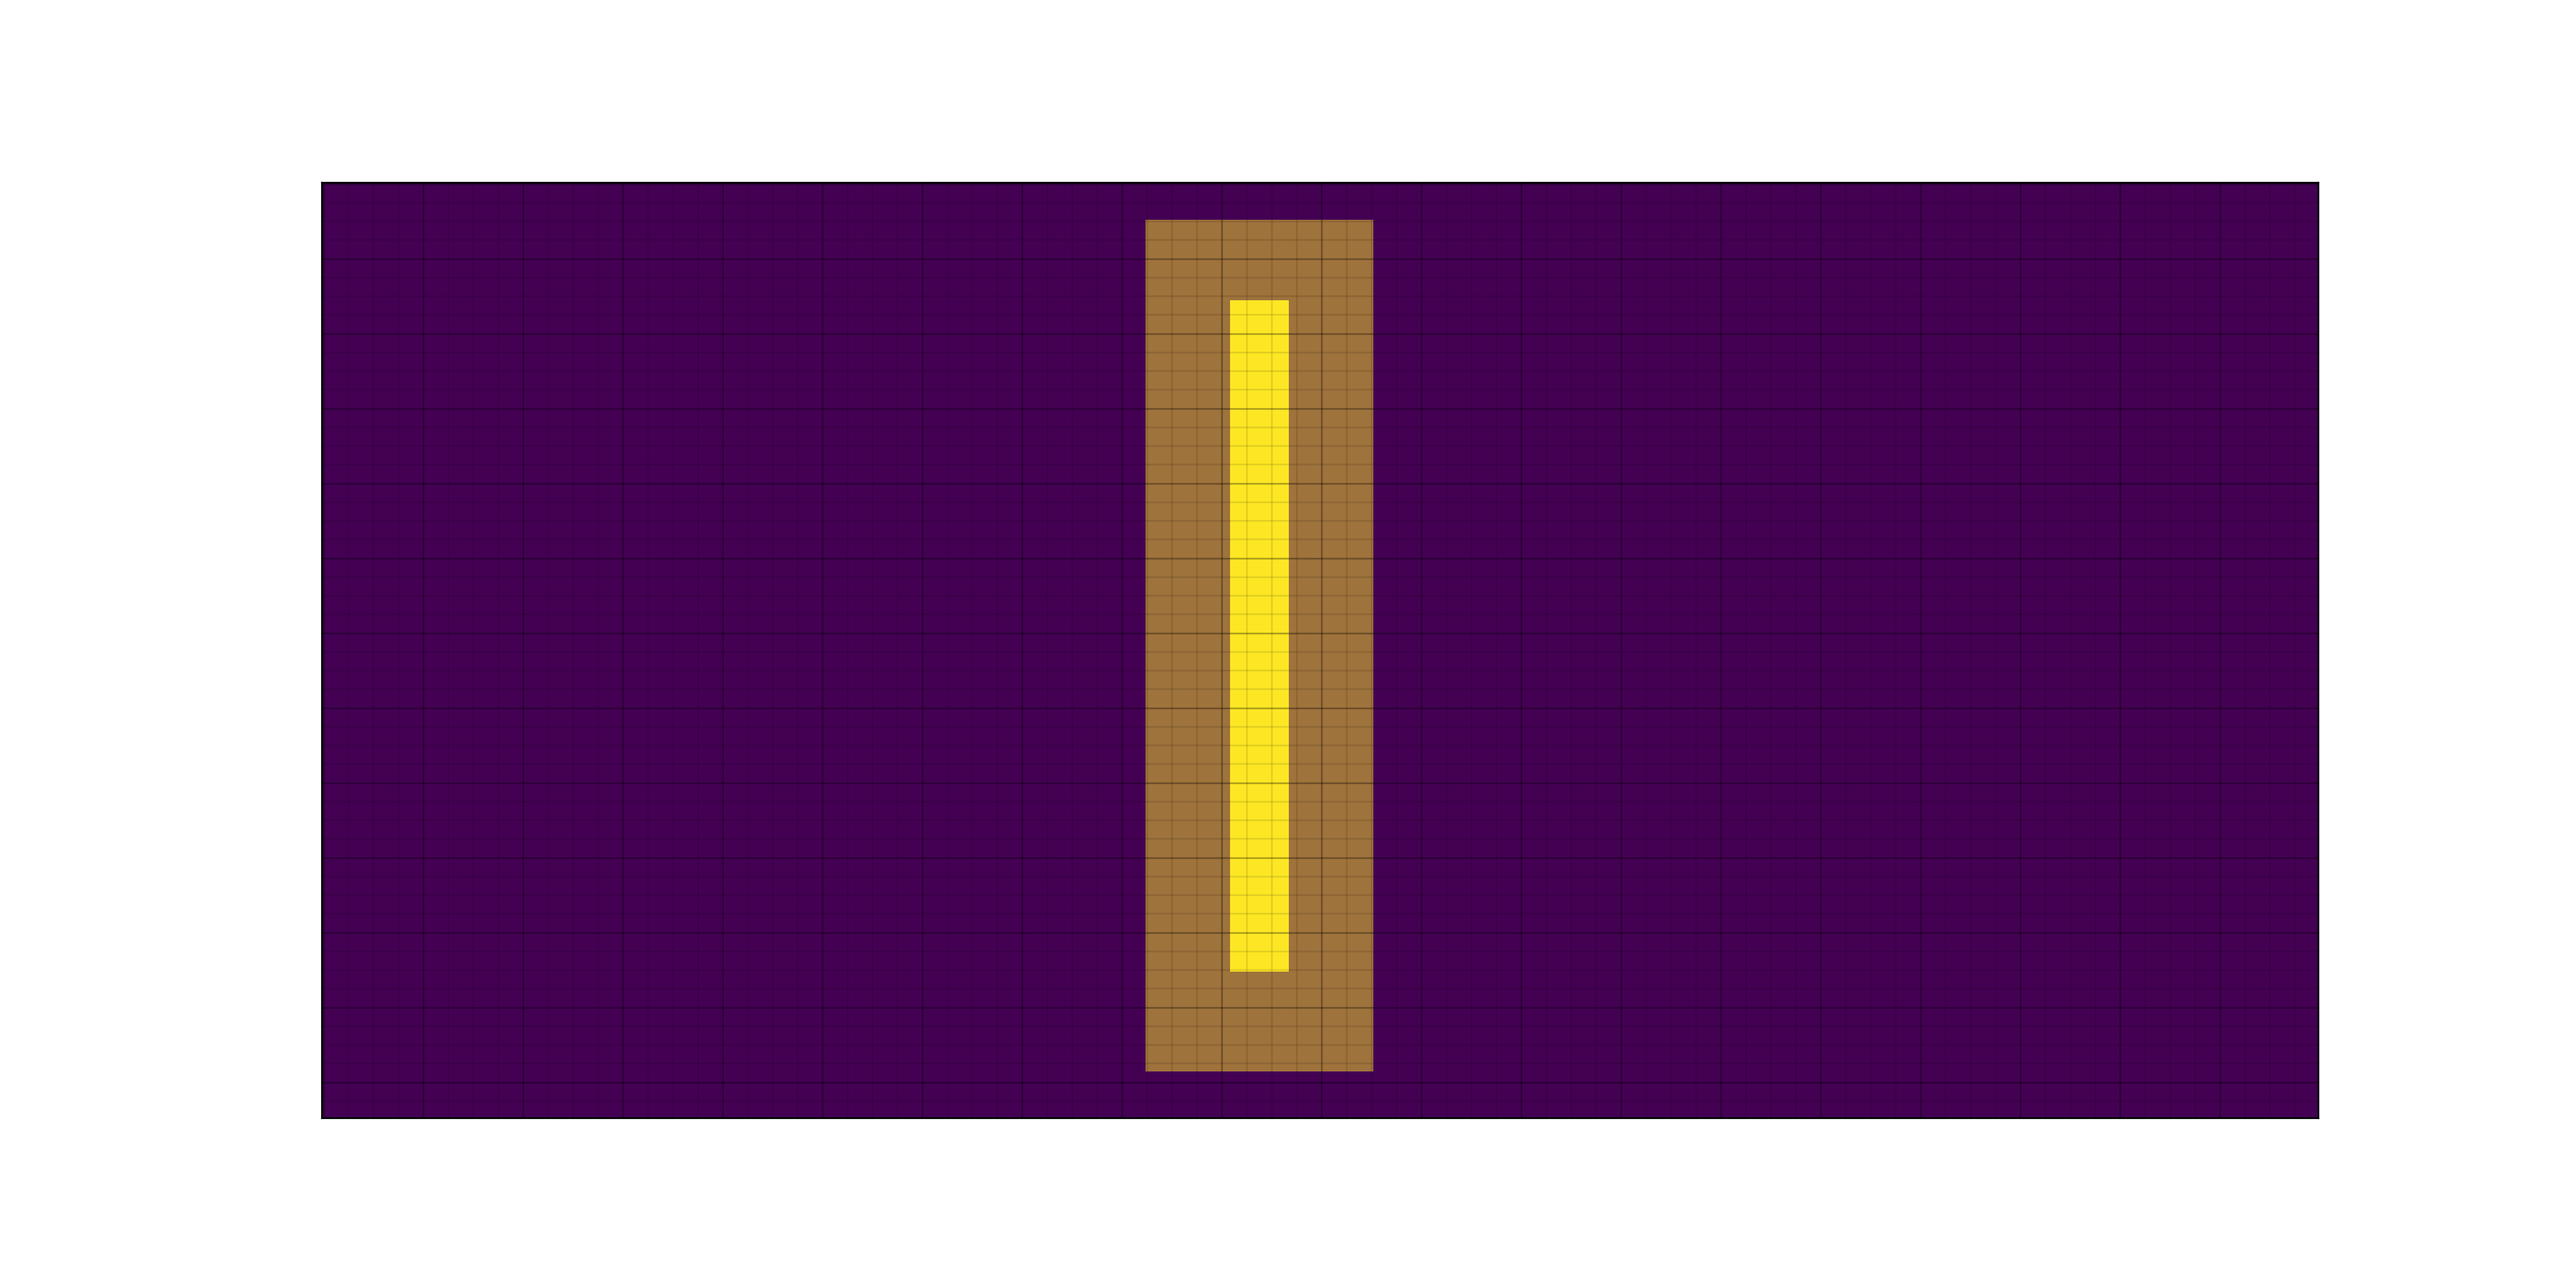
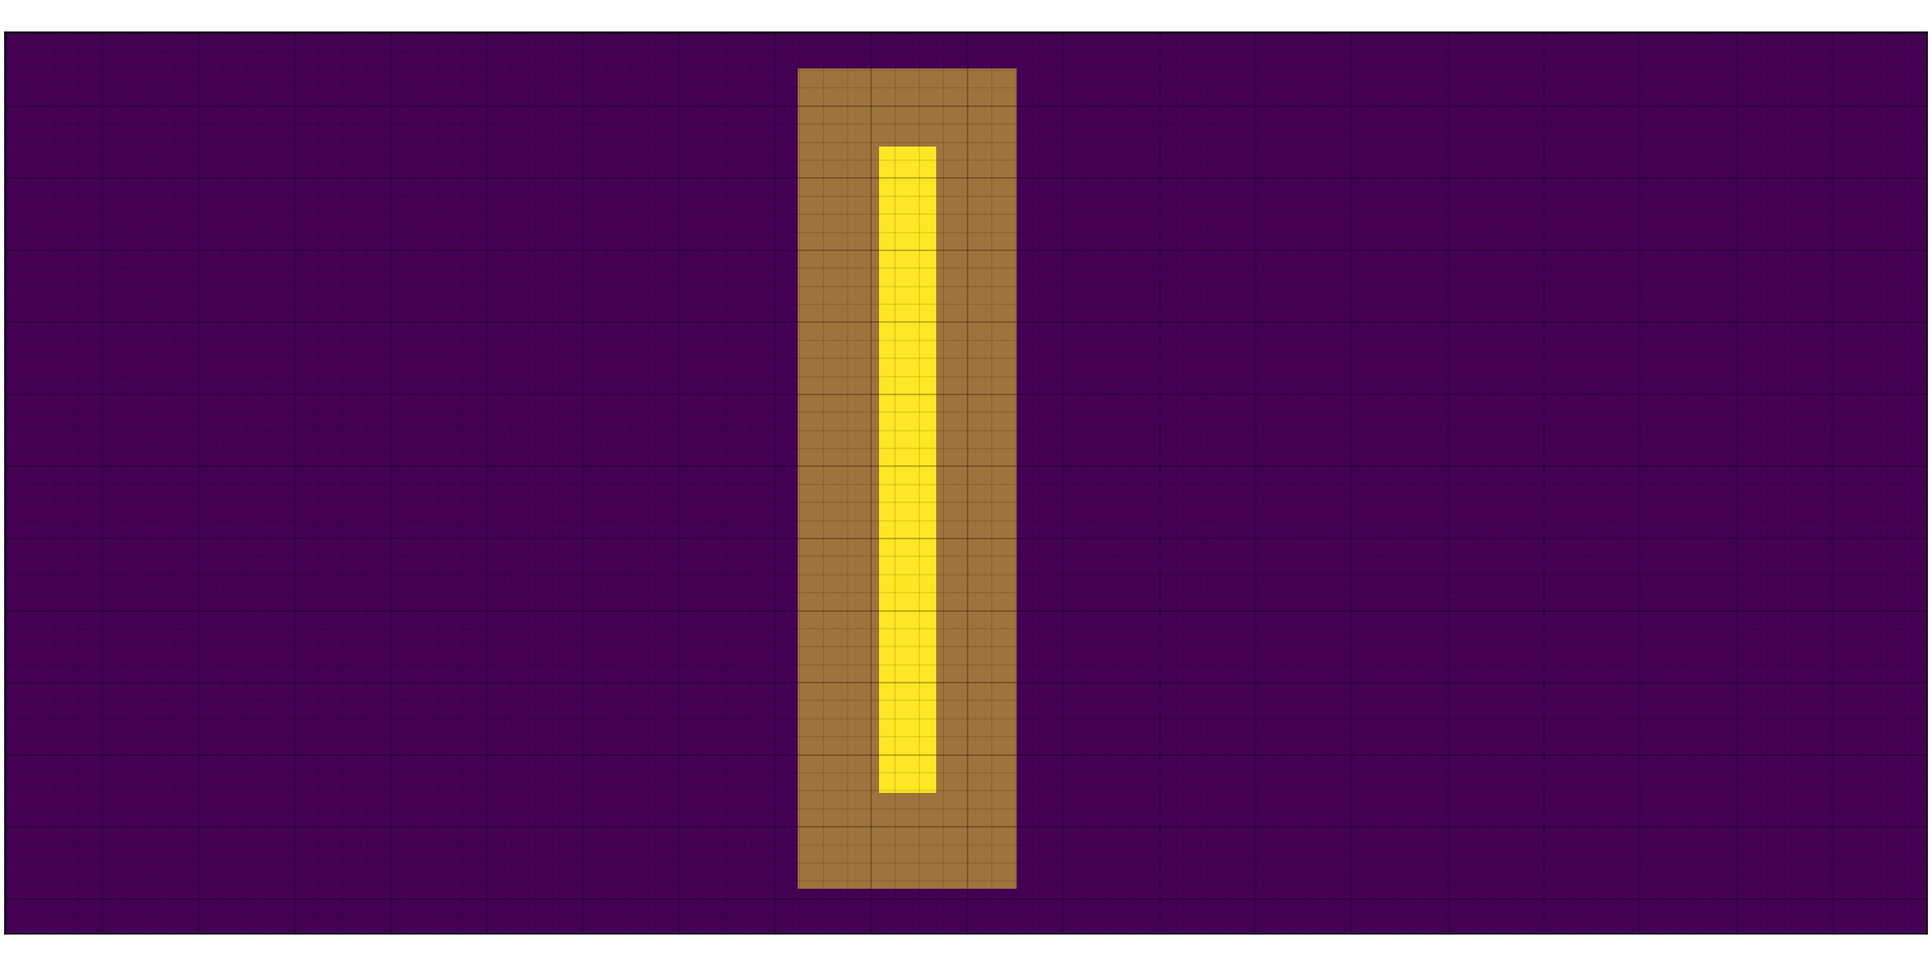
Variation dans la longuer des lignes

diff --git a/ImageSynthetique.py b/ImageSynthetique.py
@@ -6,7 +6,8 @@ params = {'legend.fontsize': 'x-large',
           'axes.titlesize':'x-large',
           'xtick.labelsize':'x-large',
           'ytick.labelsize':'x-large',
-          'figure.dpi' : 200}
+          'figure.dpi' : 150,
+          'figure.constrained_layout.use': True}
 
 plt.rcParams.update(params)
 import time
@@ -49,7 +50,8 @@ class Image:
         for line in range(lines):
             intensity = np.random.randint(min_intensity,200)
             thickness = np.random.randint(times,2*times)
-            cv2.line(big_image, tuple(start), tuple(end), intensity, thickness)
+            length_var = [np.random.randint(-times,times),0]
+            cv2.line(big_image, tuple(start+length_var), tuple(end-length_var), intensity, thickness)
             start[1] += spacing
             end[1] += spacing
 
@@ -60,7 +62,9 @@ class Image:
         #image_resize = cv2.GaussianBlur(image_resize,(5,5),0.6)
         mask_2 = image_resize.copy().astype(np.uint8)
         _, mask_2 = cv2.threshold(mask_2, min_intensity, 255, cv2.THRESH_BINARY)
-        mask_2 += image_resize.astype(np.uint8)
+        #mask_2 += image_resize.astype(np.uint8)
+        # plt.imshow(mask_2)
+        # plt.savefig('mask')
         mask_2 = cv2.bitwise_not(mask_2)
 
         self.image = cv2.bitwise_and(self.image, self.image, mask = mask_2)
@@ -85,6 +89,7 @@ class Image:
         windows_v = (self.height - window_size) // pad_v + 1
         crops = np.zeros((windows_v, windows_h, window_size, window_size))
         labels = np.zeros((windows_v, windows_h))
+        segmentation_crops = np.zeros((windows_v, windows_h, window_size, window_size))
         for j in range(windows_v):
             y_top = j*pad_v
             y_bottom = j*pad_v + window_size
@@ -156,18 +161,19 @@ class Image:
 
 def noisy(image, height, intensity):
     row,col= image.shape
-    s_vs_p = 0.5
-    amount = 0.08
     out = np.copy(image)
-    # Salt mode
-    num_salt = np.ceil(amount * image.size * s_vs_p)
-    coords = [np.random.randint(0, i - 1, int(num_salt))
-          for i in image.shape]
-    out[tuple(coords)] += height
-    # Pepper mode
+    # s_vs_p = 0.5
+    # amount = 0.1
+    # # Salt mode
+    # num_salt = np.ceil(amount * image.size * s_vs_p)
+    # coords = [np.random.randint(0, i - 1, int(num_salt))
+    #       for i in image.shape]
+    # out[tuple(coords)] += height
+    # # Pepper mode
     # num_pepper = np.ceil(amount* image.size * (1. - s_vs_p))
     # coords = [np.random.randint(0, i - 1, int(num_pepper))
     #       for i in image.shape]
     # out[tuple(coords)] -= height
-    out += np.random.randint(0, intensity)
+    random = np.round(np.random.rand(row, col) * intensity)
+    out += random
     return out

diff --git a/Dataset.py b/Dataset.py
@@ -56,7 +56,7 @@ def crops_to_dataset(crops, labels, balanced=True, split=False, shuffle=True):
 def define_model(img_shape, fine_tune_layers=0, dropout=False):
     base_model = keras.applications.ResNet50(
       weights="imagenet",  # Load weights pre-trained on ImageNet.
-      input_shape=(img_shape[0],img_shape[0],3),
+      input_shape=(32,32,3),
       include_top=False,
     )  # Do not include the ImageNet classifier at the top.
 
@@ -69,9 +69,11 @@ def define_model(img_shape, fine_tune_layers=0, dropout=False):
 
     # Create new model on top
     inputs = keras.Input(shape=img_shape)
-    #x = keras.layers.experimental.preprocessing.Resizing(48,48)(x)
+    x = inputs
+    if img_shape[0] != 32:
+        x = keras.layers.experimental.preprocessing.Resizing(32,32)(x)
     # Convolve to adapt to 3-channel input
-    x = keras.layers.Conv2D(3,(3,3), padding='same')(inputs)
+    x = keras.layers.Conv2D(3,(3,3), padding='same')(x)
     # Pre-processing
     x = keras.applications.resnet50.preprocess_input(x)
     # Base pre-trained model
